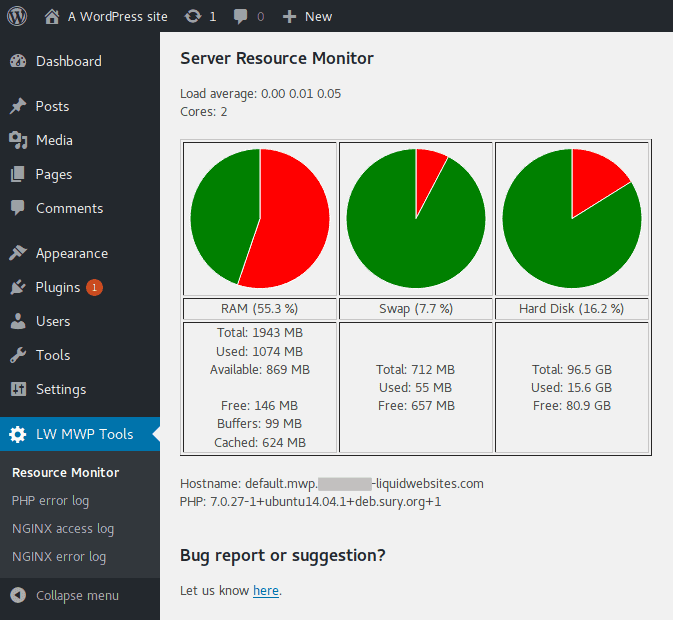
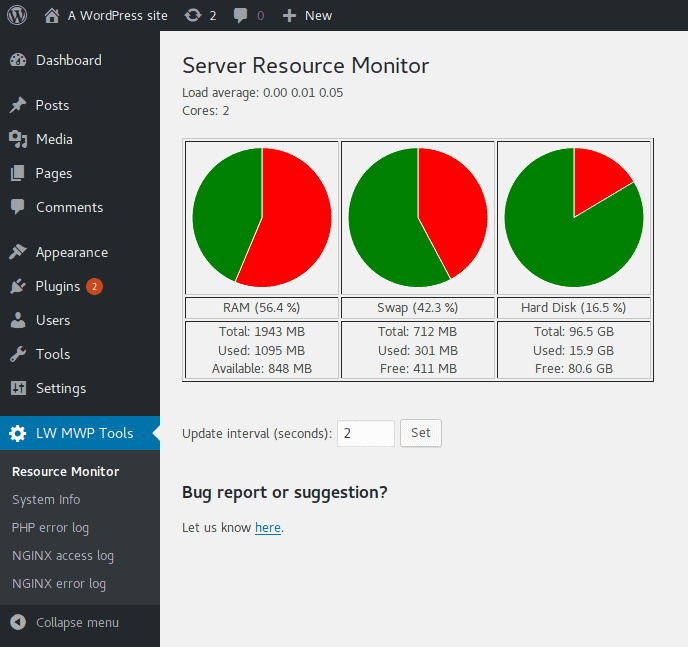
add update interval uninstall hook

Changed region(s): [[0.0, 0.0, 1.0, 1.0], [0.0, 0.95, 0.1872, 0.9806], [0.2808, 0.95, 0.4056, 0.9806]]

diff --git a/monitor.php b/monitor.php
@@ -37,7 +37,7 @@ Cores: <span id="cores"></span><br><br>
 <form method="post" action="options.php"> <!--the update interval setting, with a default of 2 seconds-->
   <?php settings_fields('lwmwptools-settings-group'); ?>
   <?php do_settings_sections('lwmwptools-settings-group'); ?>
-  Update interval: <input type="text" name="lwmwptools_update_interval" id="update_interval" value="<?php echo esc_attr(get_option('lwmwptools_update_interval', "2") ); ?>" maxlength="4" size="4" />
+  Update interval (seconds): <input type="text" name="lwmwptools_update_interval" id="update_interval" value="<?php echo esc_attr(get_option('lwmwptools_update_interval', "2") ); ?>" maxlength="4" size="4" />
   <?php submit_button("Set", '', '', false); ?>
 </form>
 

diff --git a/uninstall.php b/uninstall.php
@@ -1,0 +1,3 @@
+<?php defined('WP_UNINSTALL_PLUGIN') or die('No!');
+delete_option('lwmwptools_update_interval');
+?>
